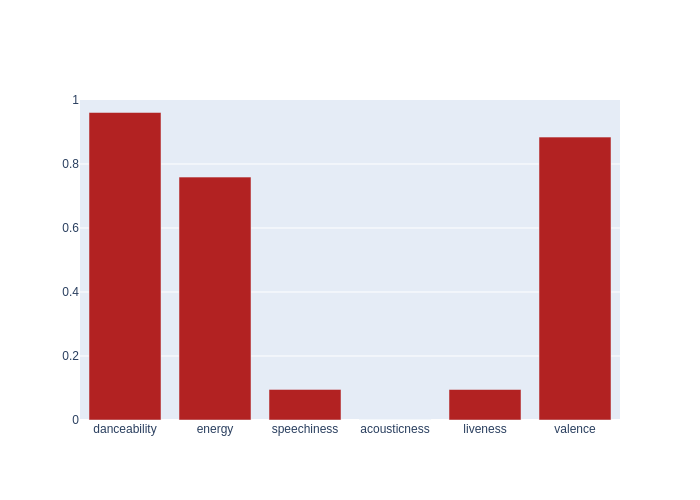
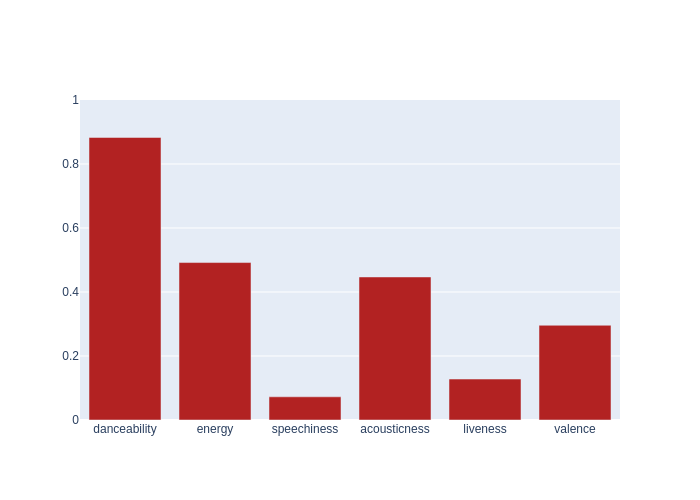
Automated README update

diff --git a/README.md b/README.md
@@ -4,7 +4,7 @@ Automated music metrics for fun, updated hourly.
 
 ## Spotify
 
-- currently listening to **KruddTheGuru - TriedToTellYou**
+- currently listening to **Amaarae - SAD GIRLZ LUV MONEY**
 
 - **894** liked songs
 - **146** playlists
